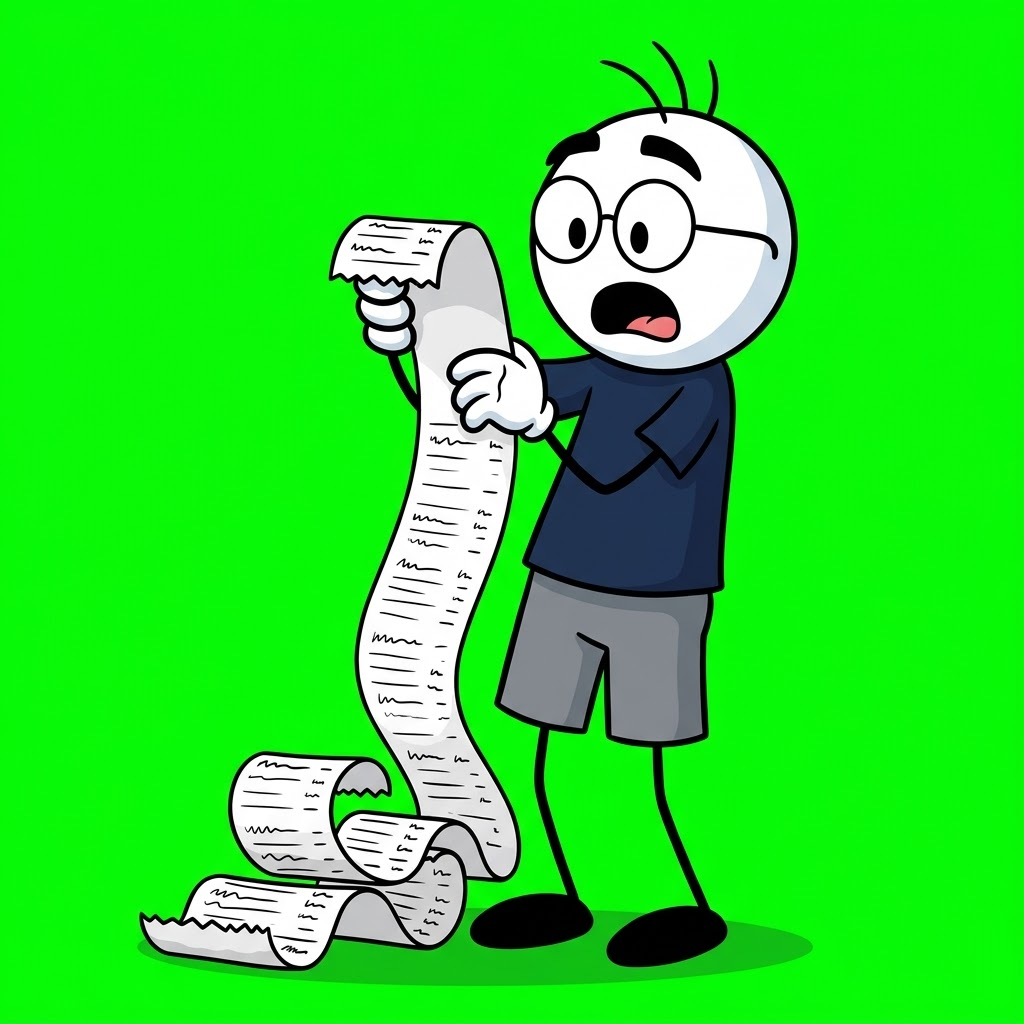
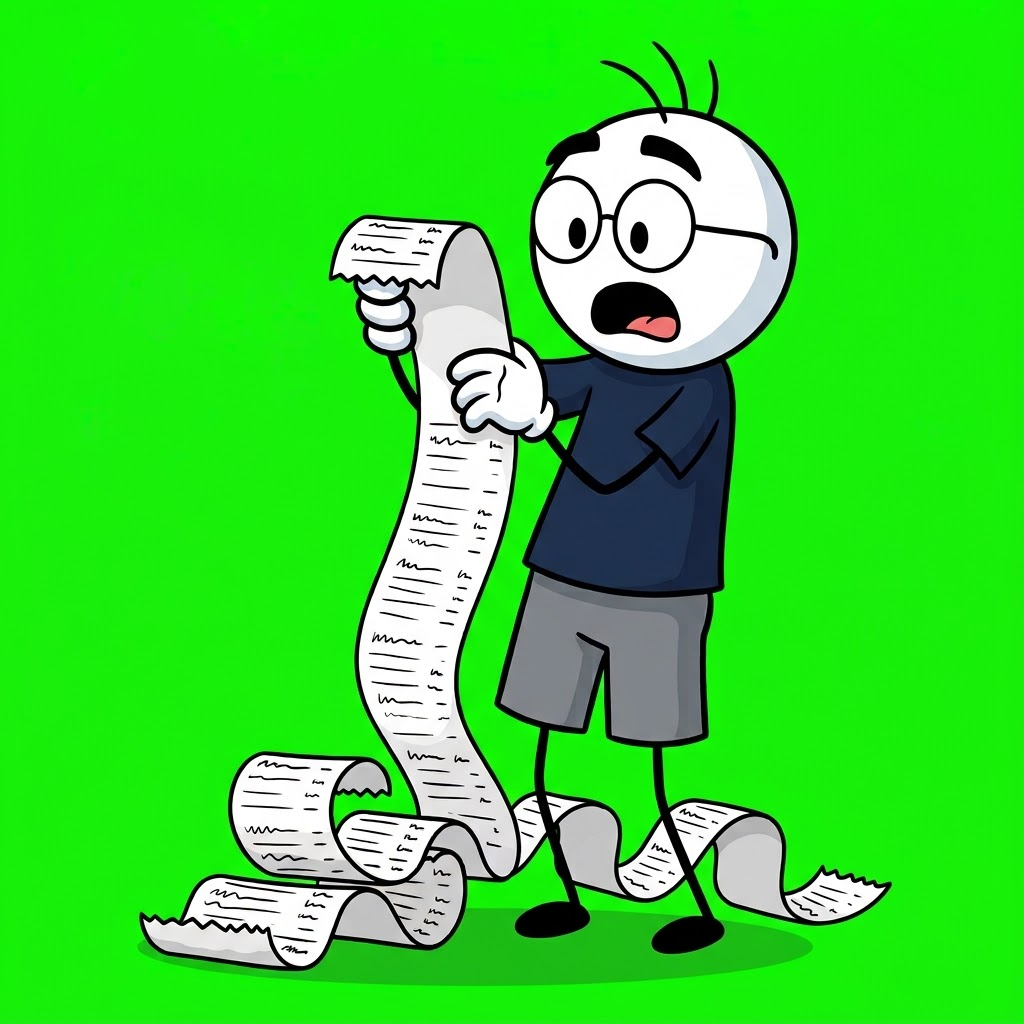
SM: P19 refeita com pés menores (anterior em P19-v1)
Claude-Session: https://claude.ai/code/session_01CPpR5r5CmT5iA1iHX1xLRf

Changed region(s): [[0.4375, 0.75, 0.875, 0.9688]]

diff --git a/assets/steady/STATUS.md b/assets/steady/STATUS.md
@@ -10,10 +10,9 @@ Prompts completos: doc "Piloto de vídeo animado — Steady Money", aba "Banco d
 Aprovadas: P01 (frente = referência principal), P03 pensativo, P04 confuso, P05 assustado, P08 apontando,
 P12 lendo papel, P13 carteira vazia (com mariposa), P19 recibo comprido (pés grandes e manga longa, aceitável);
 O01 moeda, O02 pilha de moedas, O03 nota, O06 cofrinho, O07/O08/O09 envelopes (casa/cadeado/estrela),
-O11 sacola, O12 calendário.
+O11 sacola, O12 calendário. P19 refeita em 05/11 com pés menores (a anterior ficou em P19-v1.png).
 
 Pendentes (o Vini estourou o limite do Gemini e vai terminar quando liberar):
-- P19: tentar o ajuste (pés pequenos ovais + manga curta); se não ficar bom, manter a atual.
 - P18 relaxado na poltrona (cena 10 do roteiro piloto).
 - P10 joinha (cena 9).
 - Depois: montar o vídeo piloto ("Por que seu salário some antes do fim do mês"), 12 cenas, legenda palavra por palavra + trilha padrão; narração ainda não definida (versão só legenda é o plano B).
